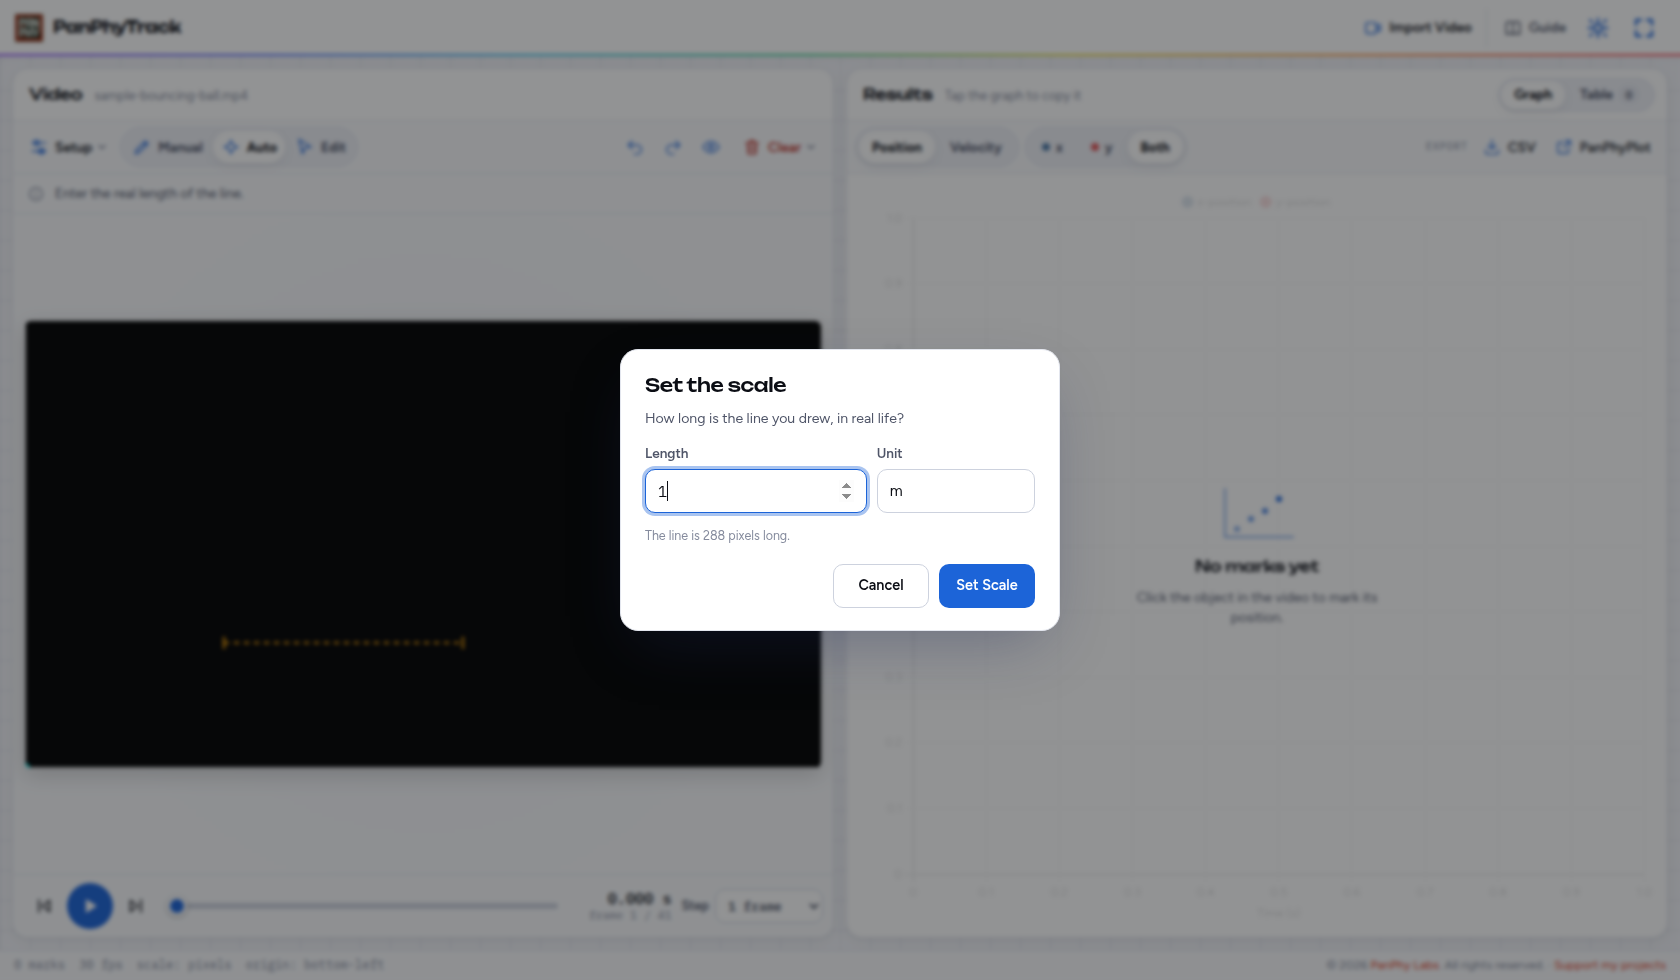
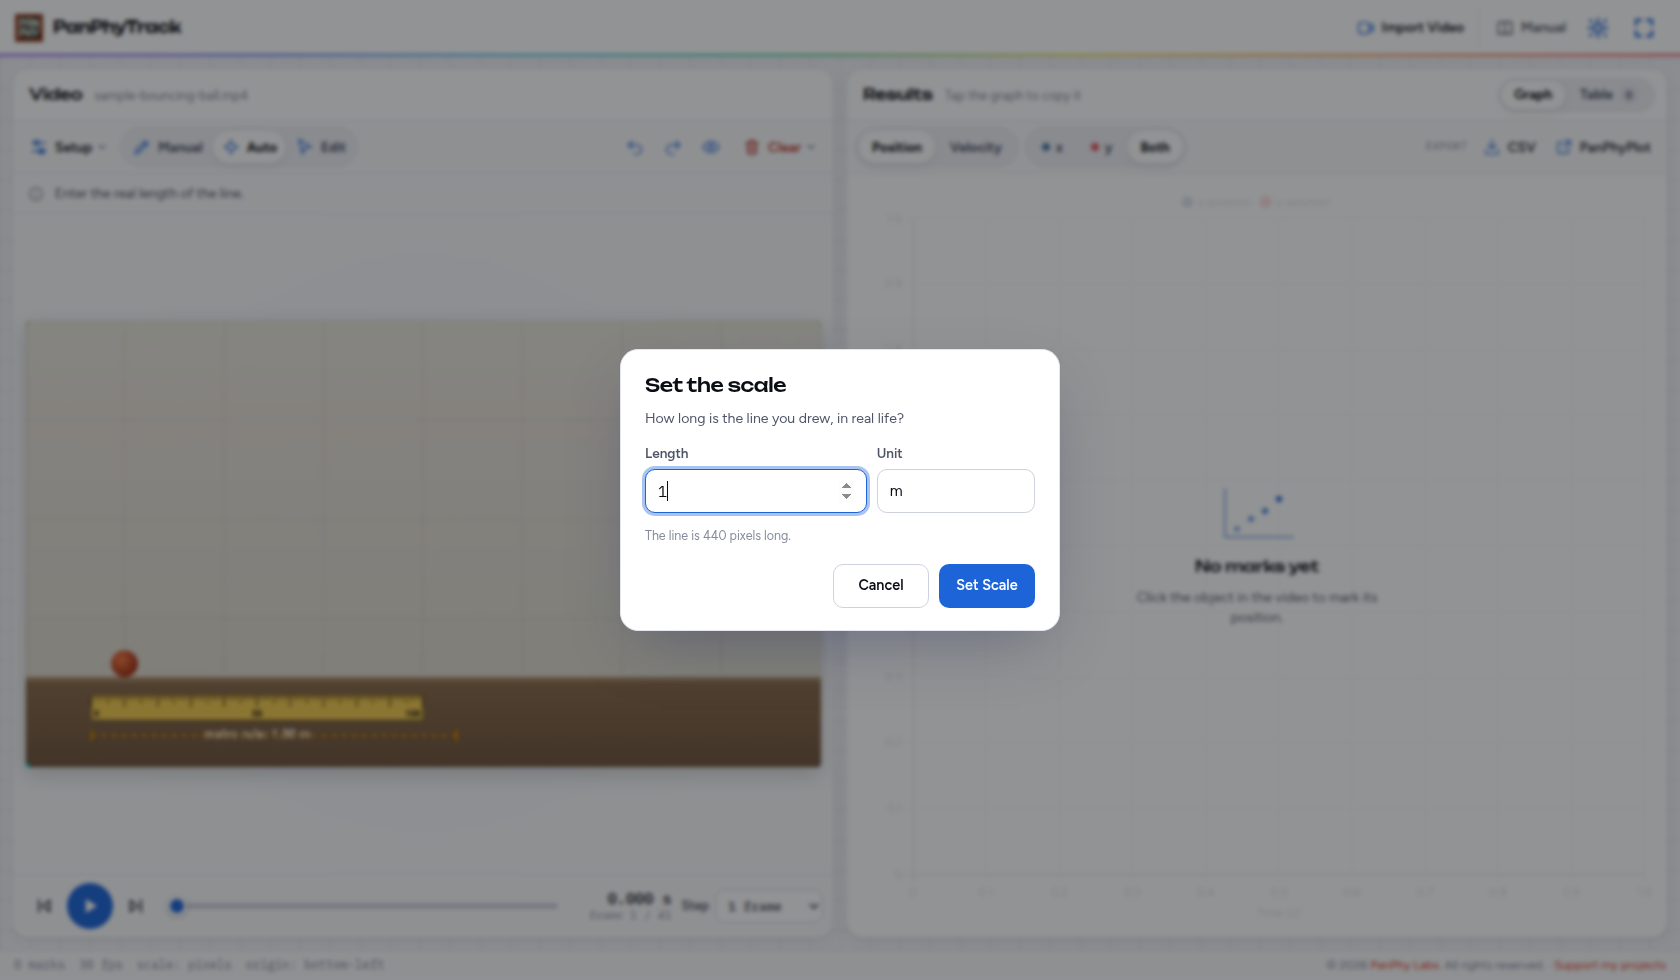
Fix PanPhyTrack manual screenshots so marks follow the ball.
Recapture workspace, scale, origin, tracked, and results shots after
clicking the sample ball at a known centroid so auto-track marks land
on the bouncing path, and bump BUILD_ID for the cached PNGs.

Changed region(s): [[0.0, 0.3061, 0.4952, 0.7959], [0.4333, 0.5204, 0.4643, 0.551]]

diff --git a/sw.js b/sw.js
@@ -1,4 +1,4 @@
-const BUILD_ID = '2026-10-28T18:16:07Z';
+const BUILD_ID = '2026-10-28T18:21:08Z';
 const CACHE_PREFIX = 'panphy-labs';
 const PRECACHE_NAME = `${CACHE_PREFIX}-precache-${BUILD_ID}`;
 const RUNTIME_CACHE = `${CACHE_PREFIX}-runtime-${BUILD_ID}`;
